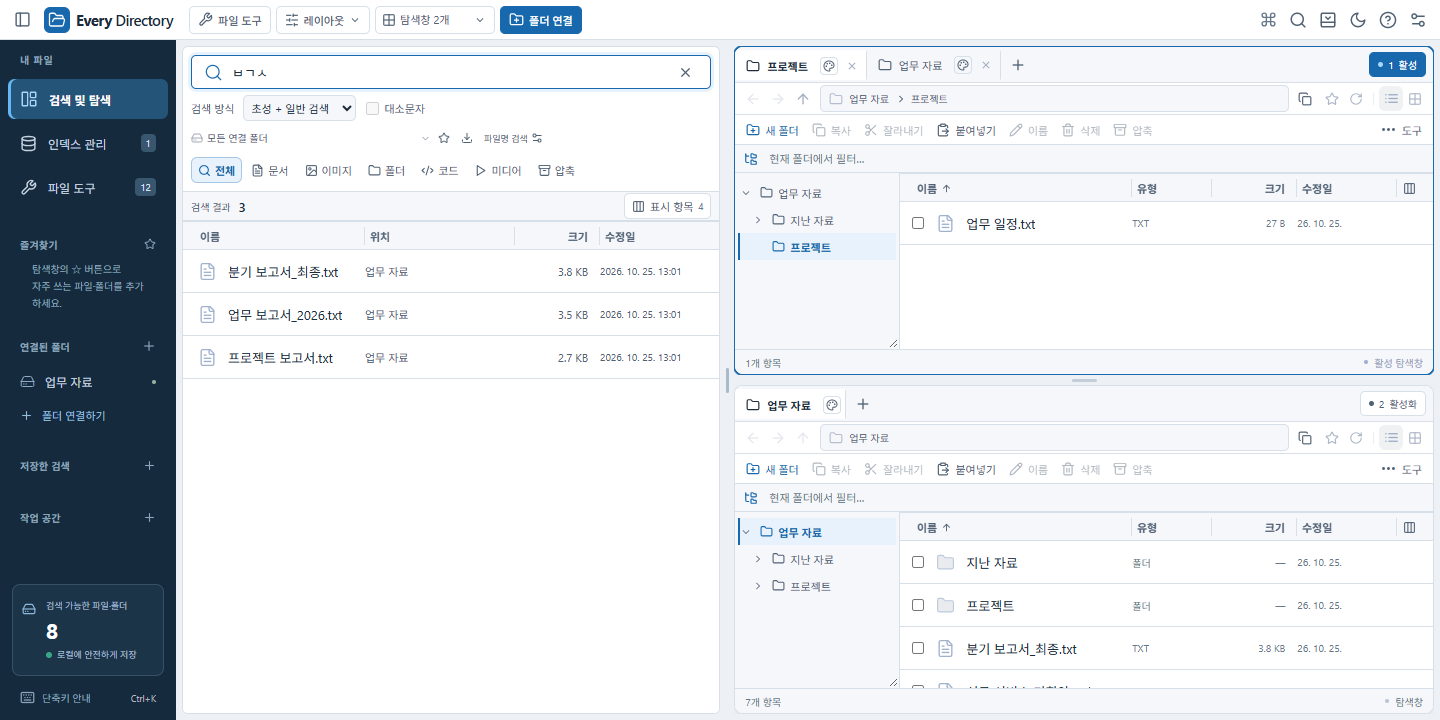
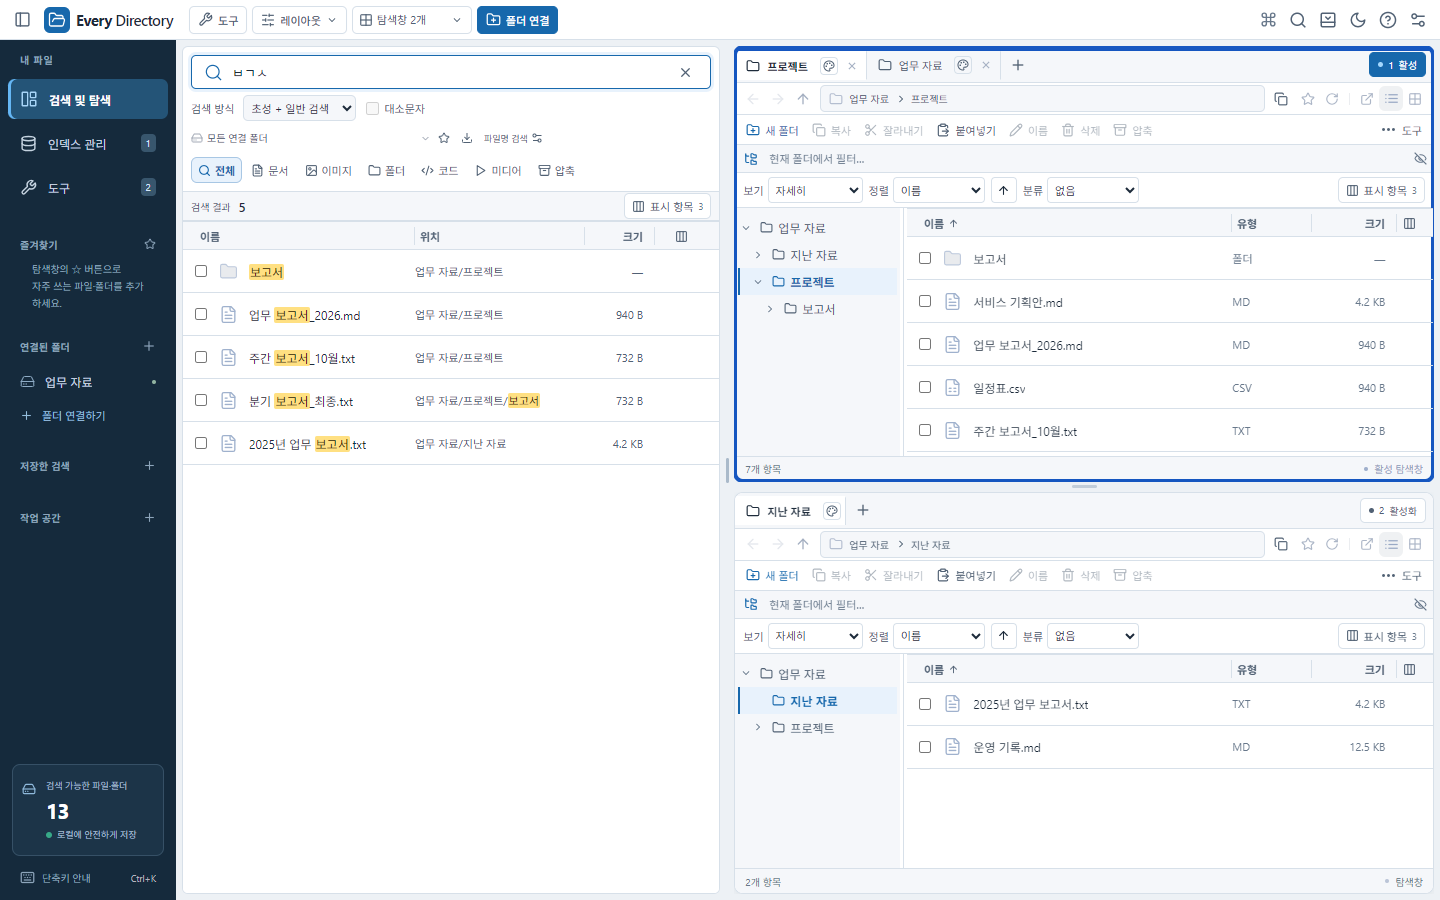
Update product introduction and screenshots for v0.10.0
Introduce Space previews, quick-search clipboard history, and File tools. Refresh five screenshots using synthetic data in the current UI.

diff --git a/docs/introduction/README.md b/docs/introduction/README.md
@@ -1,26 +1,47 @@
 # Every Directory
 
-**파일 찾기, 초성만으로 가볍게.**
+**파일 찾기부터 미리보기·정리까지, 한곳에서.**
 
 ## Ctrl + Shift + Space로 빠른 검색
 
-다른 작업 중에도 단축키 한 번으로 검색창을 여세요. 파일을 찾고 바로 열 수 있습니다.
+다른 작업 중에도 **Ctrl + Shift + Space**로 검색창을 열고 파일을 바로 찾으세요.
 
 ![빠른 검색창에서 초성으로 보고서를 찾는 화면](images/quick-search.png)
 
 ## 한국어 초성 검색
 
-정확한 파일 이름이 기억나지 않아도 **`ㅂㄱㅅ` → 보고서**, **`ㄱㅎㅇ` → 기획안**처럼 초성으로 검색하세요. 일반 파일 이름과 확장자 검색도 지원합니다.
+정확한 이름이 기억나지 않아도 **`ㅂㄱㅅ` → 보고서**, **`ㄱㅎㅇ` → 기획안**처럼 검색하세요. 일반 검색과 초성을 섞어 입력하고, 이름·경로에서 일치한 부분도 확인할 수 있습니다.
+
+## SPACE로 빠른 미리보기
+
+파일을 선택하고 **SPACE**를 누르세요. 이미지·PDF·텍스트를 미리 확인하고, **Esc**로 닫아 작업을 이어갈 수 있습니다.
+
+![SPACE로 이미지 파일을 크게 미리 보는 화면](images/quick-preview.png)
+
+## 복사한 내용을 다시 찾는 클립보드 이력
+
+**Ctrl + Shift + Space → `clip` 입력 → Enter**로 이력을 여세요. 텍스트·파일·이미지·화면 캡처를 검색하고, 미리 보거나 다시 복사·저장할 수 있습니다.
+
+보관 기간은 **기본 10일**, 설정에서 **1~60일**로 조절합니다. 호출 키워드도 변경할 수 있습니다. 파일 이력은 원본 경로를 보관합니다.
+
+![빠른 검색에 clip을 입력한 뒤 Enter로 연 클립보드 이력과 미리보기](images/clipboard-history.png)
 
 ## 검색에서 파일 정리까지
 
 - **여러 탐색창과 탭**으로 폴더를 함께 열기
 - **복사·이동·드래그**로 파일 정리하기
 - 현재 탭의 위치를 따라가는 **폴더 트리**
-- 드래그로 조절하고 저장하는 **칼럼 너비**
+- 드래그로 조절하고 저장하는 **트리·칼럼 너비**
+- **보기·정렬·분류·속성 칼럼**을 작업에 맞게 설정하기
 
 ![초성 검색 결과와 폴더 트리, 두 탐색창을 함께 보여주는 UI](images/workspace.png)
 
+## 반복 작업은 도구로 간편하게
+
+**도구 → 파일 도구**에서 일괄 이름 변경, 중복 파일 찾기, 두 폴더 비교, 이미지 변환, ZIP 압축 등을 실행하세요. **클립보드** 탭에서는 이력을 따로 관리할 수 있습니다.
+
+![파일 도구와 클립보드 탭으로 구성된 도구 화면](images/tools.png)
+
 [GitHub에서 프로젝트 보기](https://github.com/hwanse85/every_directory)
 
-*Windows 10·11 (x64). Ctrl+Shift+Space는 앱 실행 중 사용하는 기본 단축키이며 설정에서 변경할 수 있습니다. 이미지는 예시 데이터로 구성한 프로그램 UI 미리보기입니다.*
+*v0.10.0 · Windows x64. 단축키와 클립보드 기록은 앱 실행 중 동작하며, 사용자 설정은 다시 실행해도 유지됩니다. 이미지는 최신 프로그램 UI에 예시 데이터를 넣어 촬영한 미리보기입니다.*
